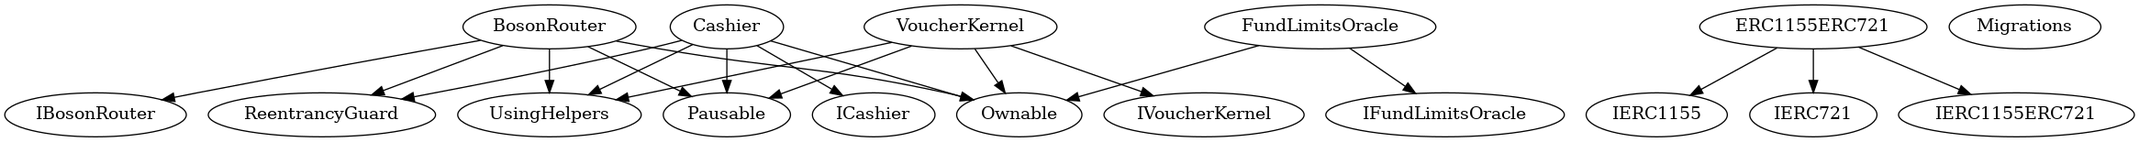
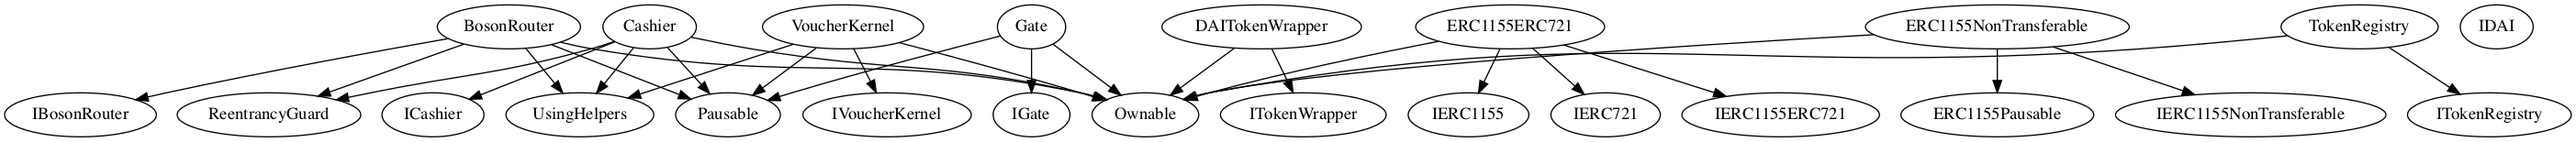
Update README, Overview, and related files

diff --git a/docs/contracts/overview.md b/docs/contracts/overview.md
@@ -13,12 +13,15 @@ are based on two NFT standards,
 ## Contracts description
 
 Main contracts:  
-* `BosonRouter`: user interface of Boson Protocol  
-* `Cashier`: escrow and funds management  
-* `ERC1155ERC721`: token factory  
-* `FundLimitsOracle`: restrictions on the allowed escrowed amounts  
-* `VoucherKernel`: main business logic  
-* `UsingHelpers`: common utilities  
+* `BosonRouter`: User interface of Boson Protocol  
+* `Cashier`: Escrow and funds management  
+* `ERC1155ERC721`: Token factory  
+* `TokenRegistry`: Restrictions on the allowed escrowed amounts and registry of token wrappers
+* `VoucherKernel`: Main business logic  
+* `UsingHelpers`: Common utilities
+* `DAITokenWrapper`: Provides a uniform interface for calling the `permit `function on the DAI token
+* `ERC1155NonTransferable`: Non-transferrable token, the possession of which allows a buyer to commit to redeem an item following a special quest or campaign.
+* `Gate`: Handles the interaction between Boson router and ERC1155NonTransferable
 
 ![Boson Protocol inheritance tree](../assets/bosonprotocol-inheritance.png)  
 A control graph of the contracts is 
@@ -30,8 +33,8 @@ two for security deposits:
 * The Seller's deposit  
 * The Buyer's deposit  
 
-Supported **currencies** are currently: ETH and $BOSON tokens.
-> Note: Functions dealing with funds have suffices such as ETHETH or ETHTKN to 
+Supported **currencies** are currently: ETH, $BOSON tokens and DAI.
+> Note: Functions dealing with funds have suffixes such as ETHETH or ETHTKN to 
 > denote the currencies used in that particular function. Two examples are given 
 > below.  
 
@@ -73,14 +76,28 @@ transaction independently of any Buyer action.
    the quantity of available things that all bear similar properties, we say 
    such an offer is a Voucher Set.  
 
+```solidity
+BosonRouter.requestCreateOrderETHETH()  
+```
+   
+   Alternatively, the Seller can make an offer with an associated gate contract and
+   non-transferrable NFT Id. In this case, the Seller is making the item(s) on offer
+   only available to Buyers who execut a conditional commit. The "condition" of
+   the commit is possession of a non-transferrable NFT with the given Id. A Buyer
+   can obtain the NFT by, for instance, completing a quest. The Seller might make items
+   obtained via conditional commit available for a discount as a reward to Buyers for
+   completing the quest. This option is only available with the TKNTKN payment type.
+
+```solidity
+BosonRouter.requestCreateOrderTKNTKNWithPermitConditional(()  
+```
+
 > Note: the contracts currently refer to this Voucher Set using a few different
 > terms such as offer, listing, supply. We are in the process of consolidating
 > these terms so for the sake of clarity, making an offer is equivalent to 
 > creating a Voucher Set which is in turn equivalent to minting an ERC-1155 NFT.
 
-```solidity
-BosonRouter.requestCreateOrderETHETH()  
-```
+
 
 2. The Buyer discovers the offer and decides to purchase a single Voucher. 
    In doing so, she commits to redeem that voucher in the future by putting the 
@@ -92,6 +109,21 @@ BosonRouter.requestCreateOrderETHETH()
   
 ```solidity
 BosonRouter.requestVoucherETHETH()  
+```
+
+   Alternatively, if the Buyer is in possession of a specific non-transferrable NFT
+   (specified by Seller when offer is made), she would be eligible for a special 
+   price or other offer when she commits to redeem the voucher. The Buyer could obtain
+   the NFT by, for instance, completing a quest. The protocol checks to see if the user
+   owns the NFT (and is therefore eligible for the special offer) at commitment time.
+   This option is ony available with the TKNTKN payment type.
+
+```solidity
+BosonRouter.requestVoucherTKNTKNWithPermit()  
+```
+
+```solidity
+BosonRouter.requestVoucherTKNTKNSameWithPermit()  
 ```
 
 3. The Buyer can then choose to `redeem` the voucher and exchange the payment 

diff --git a/README.md b/README.md
@@ -78,12 +78,13 @@ To compile the contracts:
 
 ---
 ### Run
-To deploy instances of the contracts for local development without prior knowledge to Hardhat, run the following command:
+To deploy instances of the contracts for local development without prior knowledge to Hardhat, first copy .env.example to .env and run the following command:
 ```shell
 ./go contracts:run
 ```
 
-This command starts up built-in Hardhat Network and migrates all contracts to the Hardhat Network instance.
+This command starts up built-in Hardhat Network and migrates all contracts to the Hardhat Network instance. The .env file has a hard-coded value for the BOSON_TOKEN address, which points to account #9 of the local hardhat network. This isn't an actual
+BOSON token address but just a valid address that will allow the deployment scripts to work. It's not necessary to deploy a BOSON token to run the uni tests locally (see Unit Tests section), as the unit tests deploy their own contract instances.
 
 If preferred by those who are familiar with Hardhat, the standard Hardhat commands can be used. Ganache can be started up manually by configuring a local network to be run against or using the `hardhat-ganache` plugin or you could start a Hardhat Network using `npx hardhat node`. For more information on how this can be achieved refer to the [official Hardhat documentation](https://hardhat.org/guides/ganache-tests.html#running-tests-with-ganache)
 
@@ -91,7 +92,7 @@ In a separate terminal, contracts can be deployed using
 ```shell
   npx hardhat --network [customNetworkName] deploy
 ```
-One of the contracts that gets deployed locally is a mock contract that represents the $BOSON token. The mock exists for unit testing purposes and so that those who want to develop against the protocol locally don't have to point to a testnet deployment of the $BOSON token.
+
 
 ---
 ### Test
@@ -133,12 +134,6 @@ To check the test coverage:
 
 `solidity-coverage` runs its own instance of Ganache internally, as well as
 instrumenting contracts before running.
-
-#### Interaction Tests
-
-To run the interaction tests, follow the instructions in the
-[interaction tests README.md](testUserInteractions/README.md).
-
 ---
 ### Code Linting & Formatting
 
@@ -200,7 +195,9 @@ The whitepaper is available through the project's [website](https://www.bosonpro
 
 We welcome contributions! Until now, Boson Protocol has been largely worked on by a small dedicated team. However, the ultimate goal is for all of the Boson Protocol repositories to be fully owned by the community and contributors. Issues, pull requests, suggestions, and any sort of involvement are more than welcome.
 
-If you have noticed a bug, [file an issue](/issues). If you have a large pull request, we recommend filing an issue first; small PRs are always welcome.
+If you have noticed a bug, please follow the [bug bounty procedure](https://github.com/bosonprotocol/community/blob/52725b04d1d3013dfc936d3d27ddc34019c6d02d/BugBountyProgram.md).
+
+If you do not want to be eligible for a bug bounty, you can [file an issue](https://github.com/bosonprotocol/contracts/issues).  If you have a large pull request, we recommend filing an issue first; small PRs are always welcome.
 
 Questions are also welcome, as long as they are tech related. We can use them to improve our documentation.
 

diff --git a/docs/contracts/deployment.md b/docs/contracts/deployment.md
@@ -1,10 +1,15 @@
 # Smart Contracts - Deployment
 
 
-Contracts are deployed on Rinkeby testnet at addresses:
+v0.1.0 Contracts are deployed on Rinkeby testnet at addresses:
   
-ERC1155ERC721:  
-VoucherKernel:  
-Cashier:  
-BosonRouter:  
-FundLimitsOracle:  
+FundLimitsOracle Contract Address: 0x4d827187dD0df5bF02575d24E5586e765511596e
+ERC1155ERC721 Contract Address: 0x654FA4C10C0F66c4D94B4AD458236A260888AB5a
+VoucherKernel Contract Address: 0x82a33733c2f8696F7fd61D0874351cbb8Ea61EBc
+Cashier Contract Address: 0x0bfF7B7A04C1eB19DeA63f0FF4D884914edB61E8
+Boson Router Contract Address: 0x29C9361920785F4B2175Ba61c177cEdC6A99542A
+
+Boson Token instance that can be used for testing:
+$BOSON Token Contract Address: 0x1b48e27D7ABaDf2f5A5f14975Cb9D4E457dF5111 
+
+v0.2.0 Contracts are deployed on Rinkeby testnet at addresses:
